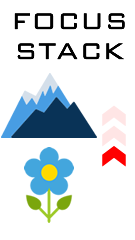
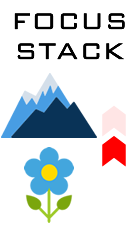
focus pull, power save, and some other stuff

Changed region(s): [[0.7407, 0.4958, 0.9481, 0.6417]]

diff --git a/arduino_workspace/AlphaFairy/alfy_defs.h b/arduino_workspace/AlphaFairy/alfy_defs.h
@@ -24,6 +24,7 @@ enum
   MENUITEM_FOCUSSTACK_NEAR_2,
   MENUITEM_FOCUSSTACK_NEAR_3,
   MENUITEM_FOCUS_9POINT,
+  MENUITEM_FOCUS_PULL,
   MENUITEM_SHUTTERSTEP,
   MENUITEM_REMOTESHUTTER_NOW,
   MENUITEM_REMOTESHUTTER_2S,
@@ -69,6 +70,7 @@ enum
   BATTSTAT_NONE,
   BATTSTAT_LOW,
   BATTSTAT_CHARGING,
+  BATTSTAT_CHARGING_LOW,
   BATTSTAT_FULL,
 };
 

diff --git a/arduino_workspace/libraries/AlphaFairy_NetMgr/AlphaFairy_NetMgr.h b/arduino_workspace/libraries/AlphaFairy_NetMgr/AlphaFairy_NetMgr.h
@@ -15,6 +15,7 @@ typedef void (*got_client_t)(uint32_t);
 void NetMgr_begin(char* ssid, char* password, got_client_t cb);
 void NetMgr_task(void);
 void NetMgr_reset(void);
+void NetMgr_reboot(void);
 char* NetMgr_getSSID(void);
 char* NetMgr_getPassword(void);
 uint32_t NetMgr_getClient(void);

diff --git a/arduino_workspace/libraries/AlphaFairy_NetMgr/AlphaFairy_NetMgr.cpp b/arduino_workspace/libraries/AlphaFairy_NetMgr/AlphaFairy_NetMgr.cpp
@@ -50,6 +50,15 @@ void NetMgr_reset()
     last_client = 0;
 }
 
+void NetMgr_reboot()
+{
+    last_client = 0;
+    esp_wifi_disconnect();
+    esp_wifi_stop();
+    esp_wifi_deinit();
+    WiFi.softAP(NetMgr_ssid, NetMgr_password);
+}
+
 char* NetMgr_getSSID() {
     return NetMgr_ssid;
 }

diff --git a/arduino_workspace/libraries/PtpIpCamera/PtpIpCamera.cpp b/arduino_workspace/libraries/PtpIpCamera/PtpIpCamera.cpp
@@ -432,6 +432,7 @@ bool PtpIpCamera::decode_pkt(uint8_t buff[], uint32_t buff_len)
     {
         send_probe_resp();
         dbgser_events->printf("PTPIP probe request\r\n");
+        critical_error_cnt++;
     }
     else
     {

diff --git a/arduino_workspace/AlphaFairy/alfy_conf.h b/arduino_workspace/AlphaFairy/alfy_conf.h
@@ -2,6 +2,8 @@
 #define _ALFY_CONF_H_
 
 //#define WIFI_AP_UNIQUE_NAME
+//#define DISABLE_STATUS_BAR
+//#define DISABLE_POWER_SAVE
 
 #define LEDBLINK_USE_PWM
 #define LEDBLINK_PWM_DUTY_ON  (0xFF - 16)

diff --git a/arduino_workspace/libraries/PtpIpCamera/PtpIpSonyAlphaCameraPropDecoder.cpp b/arduino_workspace/libraries/PtpIpCamera/PtpIpSonyAlphaCameraPropDecoder.cpp
@@ -4,6 +4,8 @@
 
 void PtpIpSonyAlphaCamera::decode_properties()
 {
+    critical_error_cnt = 0;
+
     properties_pending = false;
     need_check_properties = false;
     if (databuff_idx <= 0) {

diff --git a/arduino_workspace/AlphaFairy/alfy_types.h b/arduino_workspace/AlphaFairy/alfy_types.h
@@ -39,6 +39,7 @@ typedef struct
   int32_t infrared_enabled;
   int32_t gpio_enabled;
 
+  int32_t pwr_save_secs;
   int32_t led_enabled;
 
   int32_t intv_bulb;
